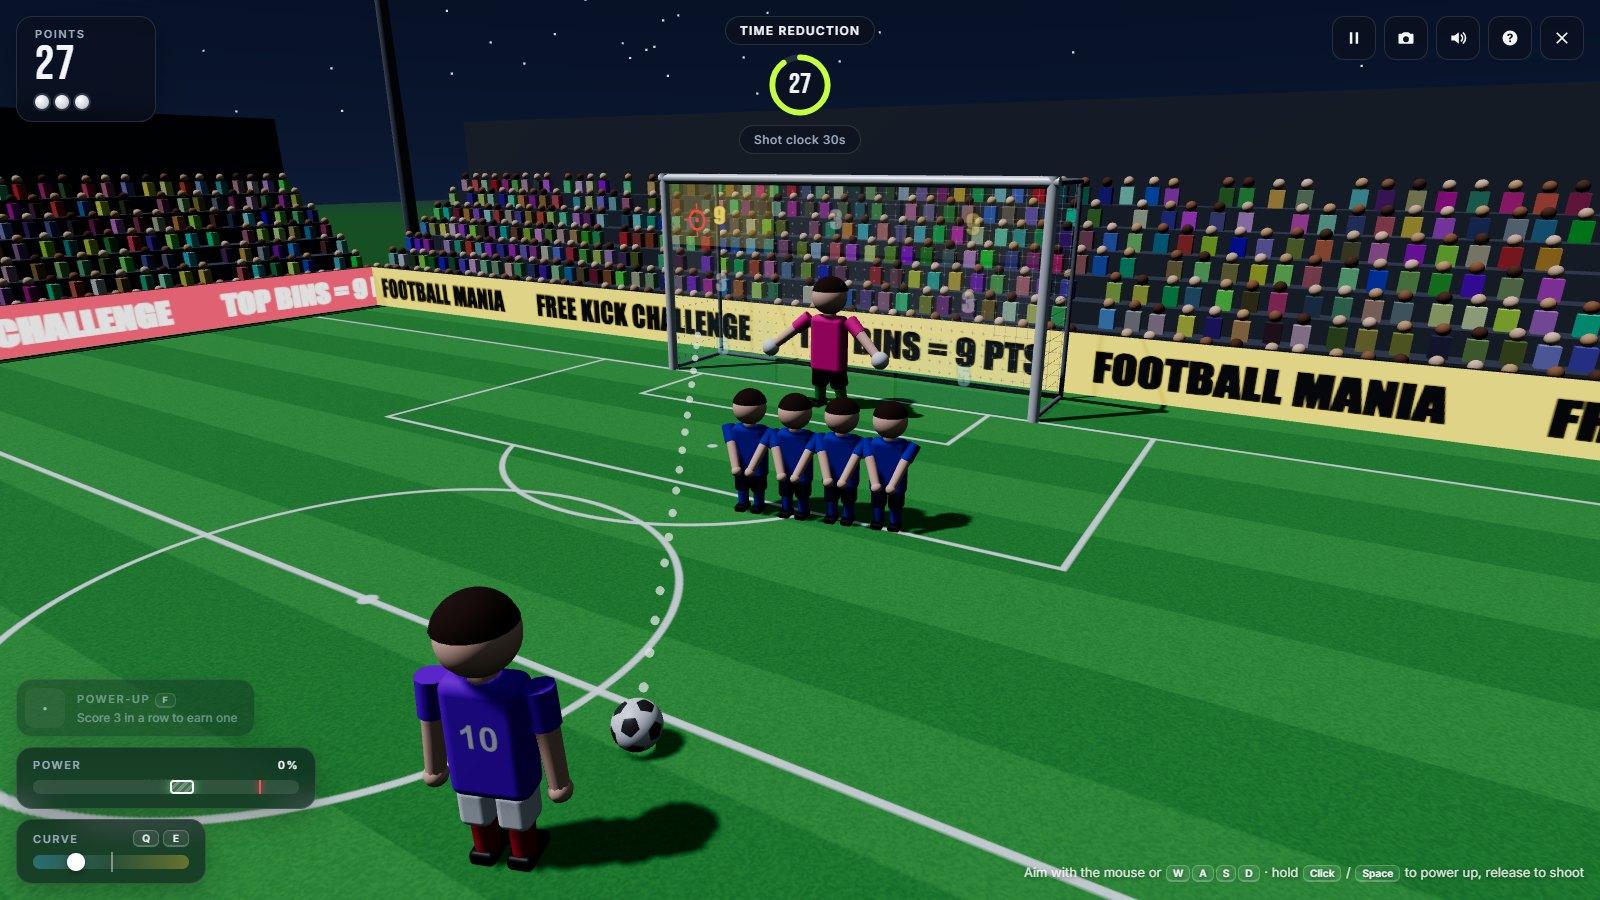
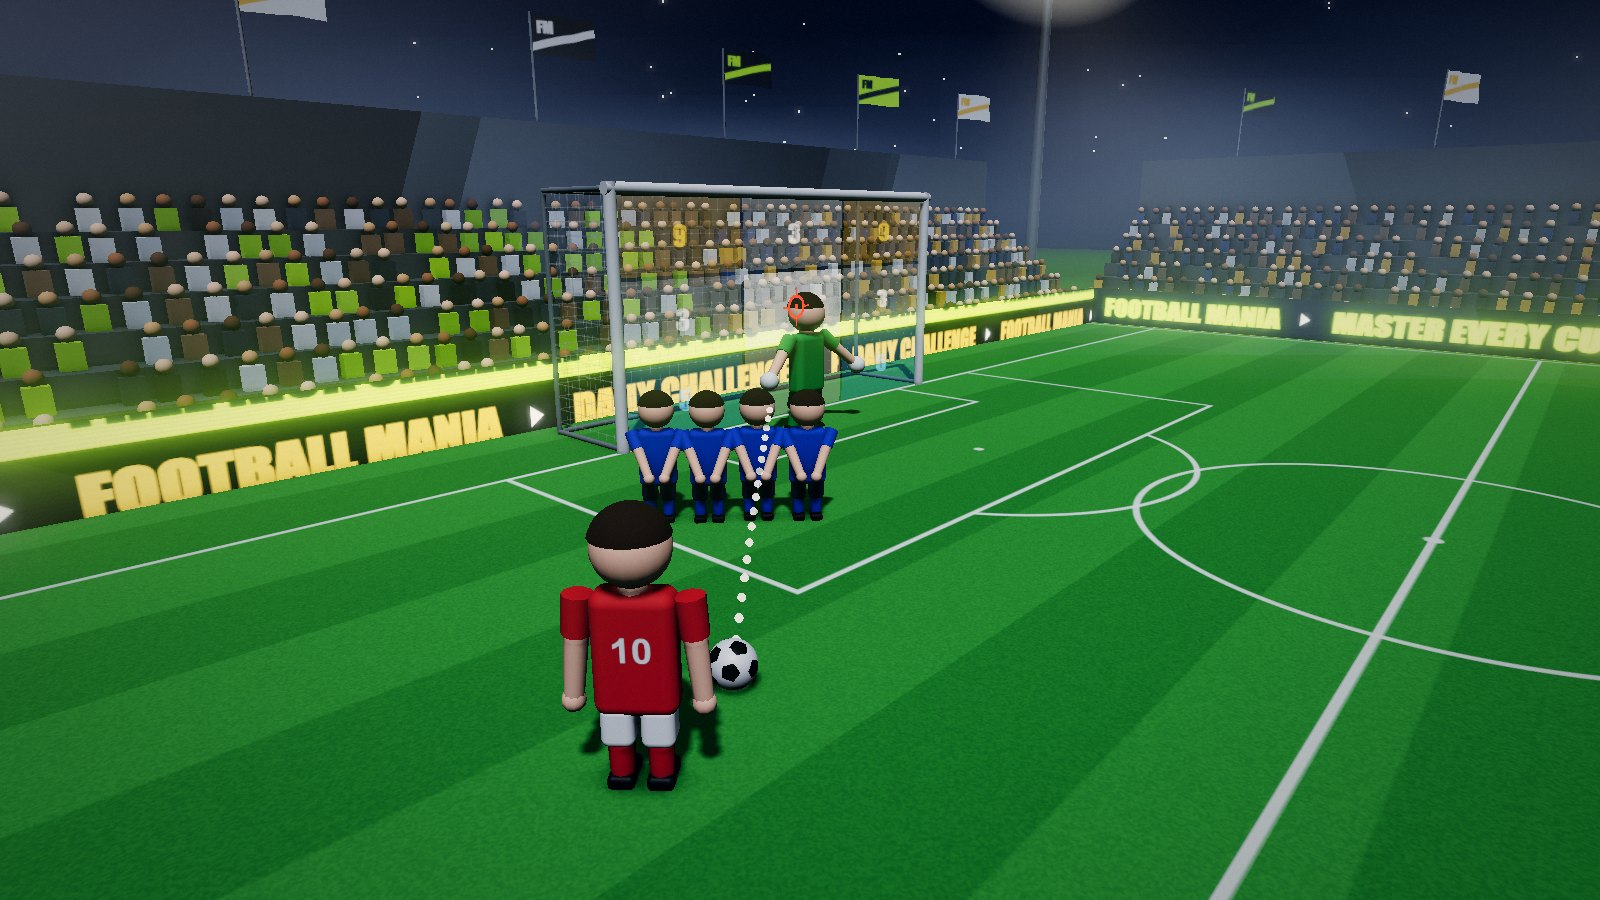
Unify branding with a new emblem and polish the whole game
- New master emblem (icons/logo.svg) and a small-size favicon.svg; all app,
  PWA and touch icons regenerated from it; README banner added
- Same ball drawing on the splash; brand mark on the main menu, pause and
  results screens
- One name ("Football Mania") and one theme colour (#060b17) everywhere
- One display font: Big Shoulders replaces Bebas Neue in the HUD, banners,
  dialogs and the 3D boards, flags and goal labels
- Wait briefly for the brand font before building the scene, so canvas
  textures never fall back to Impact on a first visit
- Achievement toasts use the trophy-cabinet badges instead of emoji
- Fresh 1600x900 install screenshots (golden hour, night, rain)
- Precache the new SVGs; remove dead results-screen CSS

diff --git a/index.html b/index.html
@@ -3,7 +3,7 @@
 <head>
   <meta charset="utf-8">
   <meta name="viewport" content="width=device-width, initial-scale=1, viewport-fit=cover">
-  <title>Football Mania 3D</title>
+  <title>Football Mania</title>
   <meta name="description" content="Free kick challenge in 3D: beat the wall and the keeper, aim for the top corners.">
   <!-- Installable app (PWA) -->
   <link rel="manifest" href="manifest.json">
@@ -12,12 +12,13 @@
   <meta name="apple-mobile-web-app-capable" content="yes">
   <meta name="apple-mobile-web-app-status-bar-style" content="black-translucent">
   <meta name="apple-mobile-web-app-title" content="Football Mania">
+  <link rel="icon" type="image/svg+xml" href="icons/favicon.svg">
   <link rel="icon" type="image/png" sizes="32x32" href="icons/favicon-32.png">
   <link rel="icon" type="image/png" sizes="192x192" href="icons/icon-192.png">
   <link rel="apple-touch-icon" href="icons/apple-touch-icon.png">
   <link rel="preconnect" href="https://fonts.googleapis.com">
   <link rel="preconnect" href="https://fonts.gstatic.com" crossorigin>
-  <link href="https://fonts.googleapis.com/css2?family=Barlow+Semi+Condensed:wght@500;600;700&family=Bebas+Neue&family=Big+Shoulders+Display:wght@700;800;900&family=Inter:wght@400;500;600;700;800&display=swap" rel="stylesheet">
+  <link href="https://fonts.googleapis.com/css2?family=Barlow+Semi+Condensed:wght@500;600;700&family=Big+Shoulders+Display:wght@700;800;900&family=Inter:wght@400;500;600;700;800&display=swap" rel="stylesheet">
   <link rel="stylesheet" href="css/style.css">
   <link rel="stylesheet" href="css/features.css">
   <link rel="stylesheet" href="css/menu.css">
@@ -33,7 +34,7 @@
   </script>
 </head>
 <body>
-  <canvas id="scene" aria-label="Football Mania 3D game view"></canvas>
+  <canvas id="scene" aria-label="Football Mania game view"></canvas>
 
   <!-- Opening splash: pure CSS, so it plays from the first paint while the game loads. -->
   <div id="splash" class="splash" role="dialog" aria-label="Football Mania is starting. Press any key or tap to skip.">
@@ -42,7 +43,20 @@
     <div class="splash-pitch" aria-hidden="true"></div>
     <div class="splash-center">
       <div class="splash-ball" aria-hidden="true">
-        <svg viewBox="0 0 64 64"><circle cx="32" cy="32" r="30" fill="#f5f7fb"/><path d="M32 20l11.4 8.3-4.4 13.4H25l-4.4-13.4z" fill="#0b1428"/><path d="M32 2.4l5.4 4.3-2 6.2h-6.8l-2-6.2zM60 26.6l-1.4 6.7-6.2.8-2.7-6.2 4.3-4.8zM50.6 55.6l-6.4 1.4-2.7-5.9 4-5.1 6.2 1.8zM19.8 57l-6.4-1.4-1.1-7.8 6.2-1.8 4 5.1zM4 26.6l5.9-3.5 4.3 4.8-2.7 6.2-6.2-.8z" fill="#0b1428"/><circle cx="32" cy="32" r="30" fill="none" stroke="rgba(11,20,40,.35)" stroke-width="1.5"/></svg>
+        <svg viewBox="0 0 64 64">
+          <defs>
+            <radialGradient id="sb-shade" cx="38%" cy="32%" r="72%"><stop offset="0" stop-color="#fff"/><stop offset=".72" stop-color="#f3f6fa"/><stop offset="1" stop-color="#cfd7e2"/></radialGradient>
+            <radialGradient id="sb-shadow" cx="70%" cy="74%" r="60%"><stop offset=".45" stop-color="#060b17" stop-opacity="0"/><stop offset="1" stop-color="#060b17" stop-opacity=".28"/></radialGradient>
+            <clipPath id="sb-clip"><circle cx="32" cy="32" r="30"/></clipPath>
+          </defs>
+          <!-- same ball as icons/logo.svg -->
+          <circle cx="32" cy="32" r="30" fill="url(#sb-shade)"/>
+          <g clip-path="url(#sb-clip)" fill="#0b1428"><path d="M32 20l11.4 8.3-4.4 13.4H25l-4.4-13.4zM32 1.2l6.2 4.6-2.4 7.2h-7.6l-2.4-7.2zM61.6 25.4l-1.6 7.8-7.2 1-3.1-7 5-5.6zM51.6 56.8l-7.4 1.6-3.1-6.8 4.6-5.9 7.2 2zM19.8 58.4l-7.4-1.6-1.3-9 7.2-2 4.6 5.9zM2.4 25.4l6.9-4.2 5 5.6-3.1 7-7.2-1z"/></g>
+          <path d="M32 20V13M43.4 28.3l6.3-1.3M39 41.7l3.6 4.3M25 41.7l-3.6 4.3M20.6 28.3l-6.3-1.3" stroke="#0b1428" stroke-width="1.1" stroke-linecap="round" opacity=".75" fill="none"/>
+          <circle cx="32" cy="32" r="30" fill="url(#sb-shadow)"/>
+          <ellipse cx="21" cy="14" rx="7.5" ry="4" fill="#fff" opacity=".35" transform="rotate(-28 21 14)"/>
+          <circle cx="32" cy="32" r="29.4" fill="none" stroke="#0b1428" stroke-opacity=".35" stroke-width="1.2"/>
+        </svg>
       </div>
       <div class="splash-eyebrow"><i></i>Free kick challenge<i></i></div>
       <h1 class="splash-title"><span class="t1">Football</span><span class="t2">Mania</span></h1>
@@ -166,7 +180,7 @@
       </header>
 
       <div class="hero">
-        <div class="eyebrow reveal" style="--d: 0.05s"><i></i>Free kick challenge</div>
+        <div class="eyebrow reveal" style="--d: 0.05s"><img class="brand-mark" src="icons/logo.svg" alt="" width="34" height="34">Free kick challenge</div>
         <h1 class="title reveal" style="--d: 0.12s"><span class="t1">Football</span><span class="t2">Mania</span></h1>
         <p class="tagline reveal" style="--d: 0.2s">Master every curve.</p>
         <p class="lead reveal" style="--d: 0.26s">Bend it round the wall, beat the keeper and pick out the top corners.</p>
@@ -265,7 +279,8 @@
     </section>
 
     <section id="screen-pause" class="screen hidden">
-      <div class="dialog">
+      <div class="dialog pause">
+        <img class="brand-mark lg" src="icons/logo.svg" alt="" width="56" height="56">
         <h2 class="screen-title">Paused</h2>
         <div class="actions vertical">
           <button class="btn primary" id="btn-resume">Resume</button>
@@ -281,6 +296,7 @@
         <header class="res-head">
           <span class="res-tag">Full time</span>
           <span class="res-mode" id="over-mode"></span>
+          <img class="brand-mark res-brand" src="icons/logo.svg" alt="Football Mania" width="34" height="34">
         </header>
 
         <div class="res-body">

diff --git a/css/style.css b/css/style.css
@@ -15,14 +15,14 @@
   --text: #f3f6fb;
   --muted: #9fb0c6;
   --accent: #c6ff3d;
-  --hero: "Big Shoulders Display", "Bebas Neue", Impact, sans-serif;
+  --hero: "Big Shoulders Display", Impact, "Arial Narrow", sans-serif;
   --cond: "Barlow Semi Condensed", Inter, system-ui, sans-serif;
   --accent-ink: #13200a;
   --gold: #f2c14e;
   --blue: #4fc3ff;
   --danger: #ff4d5e;
   --radius: 16px;
-  --display: "Bebas Neue", Impact, "Arial Narrow", sans-serif;
+  --display: var(--hero);
   --body: Inter, system-ui, -apple-system, "Segoe UI", sans-serif;
 }
 
@@ -111,7 +111,7 @@ kbd {
 
 .score-panel { padding: 10px 18px 12px; justify-self: start; min-width: 140px; }
 .score-panel .big {
-  font: 48px/1 var(--display);
+  font: 800 48px/1 var(--display);
   letter-spacing: 0.02em;
   transition: transform 0.25s;
 }
@@ -164,7 +164,7 @@ kbd {
   inset: 0;
   display: grid;
   place-items: center;
-  font: 28px/1 var(--display);
+  font: 800 28px/1 var(--display);
 }
 .timer.urgent .ring { stroke: var(--danger); }
 .timer.urgent span { color: var(--danger); animation: pulse 0.5s infinite alternate; }
@@ -278,7 +278,7 @@ kbd {
 }
 #banner.show { animation: banner-in 2s cubic-bezier(0.2, 1.4, 0.4, 1) forwards; }
 .banner-title {
-  font: clamp(64px, 12vw, 150px)/0.9 var(--display);
+  font: 900 clamp(64px, 12vw, 150px)/0.9 var(--display);
   letter-spacing: 0.03em;
   text-shadow: 0 6px 30px rgba(0, 0, 0, 0.45);
 }
@@ -349,7 +349,7 @@ kbd {
 }
 .title {
   margin: 6px 0 10px;
-  font: clamp(72px, 13vw, 156px)/0.85 var(--display);
+  font: 800 clamp(72px, 13vw, 156px)/0.85 var(--display);
   letter-spacing: 0.01em;
 }
 .title span { color: var(--accent); display: block; }
@@ -384,7 +384,7 @@ kbd {
 .dot.blue { background: var(--blue); }
 .dot.white { background: #fff; }
 
-.screen-title { font: clamp(40px, 6vw, 64px)/1 var(--display); letter-spacing: 0.03em; margin: 4px 0 20px; text-align: center; }
+.screen-title { font: 800 clamp(40px, 6vw, 64px)/1 var(--display); letter-spacing: 0.03em; margin: 4px 0 20px; text-align: center; }
 
 
 .dialog {
@@ -401,13 +401,7 @@ kbd {
 .dialog.wide { width: min(640px, 100%); }
 .dialog .eyebrow { text-align: center; }
 
-.final-score { font: 96px/1 var(--display); color: var(--accent); }
-.final-score small { display: block; font: 600 12px var(--body); color: var(--muted); letter-spacing: 0.2em; text-transform: uppercase; }
 .new-best { display: inline-block; margin-top: 10px; padding: 4px 12px; border-radius: 999px; background: var(--gold); color: #2b2000; font-weight: 800; font-size: 12px; letter-spacing: 0.12em; text-transform: uppercase; animation: pulse 0.7s infinite alternate; }
-.stats { display: grid; grid-template-columns: repeat(4, 1fr); gap: 8px; margin: 22px 0 24px; }
-.stats div { padding: 10px 4px; border-radius: 12px; background: rgba(255, 255, 255, 0.05); }
-.stats b { display: block; font: 28px/1 var(--display); }
-.stats span { font-size: 11px; color: var(--muted); text-transform: uppercase; letter-spacing: 0.08em; }
 
 .help-grid { display: grid; grid-template-columns: auto 1fr; gap: 10px 20px; text-align: left; align-items: center; font-size: 14px; }
 .help-grid > div:nth-child(odd) { white-space: nowrap; }
@@ -434,7 +428,6 @@ kbd {
   .icon-btn { width: 38px; height: 38px; }
   #btn-help { display: none; }
   .score-panel .big { font-size: 36px; }
-  .stats { grid-template-columns: repeat(2, 1fr); }
 }
 @media (prefers-reduced-motion: reduce) {
   *, *::before, *::after { animation-duration: 0.01ms !important; transition-duration: 0.01ms !important; }
@@ -459,3 +452,14 @@ kbd {
 .gfx-notice .gfx-fail { display: none; }
 .gfx-notice.failed .gfx-fail { display: block; }
 .gfx-notice.failed .gfx-wait, .gfx-notice.failed .gfx-spinner { display: none; }
+
+/* Brand mark: icons/logo.svg, the same emblem as the app icon and favicon. */
+.brand-mark {
+  flex: none;
+  width: 34px;
+  height: 34px;
+  border-radius: 9px;
+  box-shadow: 0 0 0 1px rgba(198, 255, 61, 0.25), 0 6px 16px rgba(0, 0, 0, 0.45);
+}
+.brand-mark.lg { width: 56px; height: 56px; border-radius: 14px; display: block; margin: 0 auto 14px; }
+.res-brand { margin-left: auto; }

diff --git a/css/features.css b/css/features.css
@@ -4,7 +4,7 @@
 .mult {
   padding: 3px 9px;
   border-radius: 999px;
-  font: 22px/1 var(--display);
+  font: 800 22px/1 var(--display);
   letter-spacing: 0.04em;
   color: #2b1500;
   background: linear-gradient(135deg, var(--gold), #ff8a2b);
@@ -30,7 +30,7 @@
 .hud-right { justify-self: end; display: flex; flex-direction: column; align-items: flex-end; gap: 8px; }
 .wind { display: flex; align-items: center; gap: 10px; padding: 8px 14px 8px 10px; border-radius: 12px; }
 .wind svg { width: 26px; height: 26px; fill: var(--blue); transition: transform 0.4s ease-out; }
-.wind b { font: 20px/1 var(--display); letter-spacing: 0.03em; }
+.wind b { font: 800 20px/1 var(--display); letter-spacing: 0.03em; }
 .wind.strong svg { fill: var(--gold); }
 
 .power-sweet {
@@ -96,7 +96,7 @@
   display: flex;
   align-items: center;
   gap: 8px;
-  font: 28px/1 var(--display);
+  font: 800 28px/1 var(--display);
   letter-spacing: 0.12em;
   text-transform: uppercase;
 }
@@ -121,6 +121,8 @@
 .ach-toast .kicker { font-size: 10px; font-weight: 700; letter-spacing: 0.16em; text-transform: uppercase; color: var(--gold); }
 .ach-toast b { display: block; font-size: 15px; }
 .ach-toast span { font-size: 12px; color: var(--muted); }
+.ach-toast .icon.badge { background: none; }
+.ach-toast .icon.badge svg { width: 100%; height: 100%; }
 .ach-toast.tinted { border-color: var(--c, var(--gold)); }
 .ach-toast.tinted .kicker { color: var(--c, var(--gold)); }
 
@@ -129,7 +131,6 @@
 
 .over-daily { margin-top: 10px; color: var(--accent); font-weight: 600; font-size: 14px; }
 .over-unlocks { display: flex; flex-wrap: wrap; justify-content: center; gap: 6px; margin: -8px 0 20px; }
-.over-unlocks span { padding: 4px 10px; border-radius: 999px; background: rgba(255, 210, 63, 0.14); border: 1px solid rgba(255, 210, 63, 0.4); font-size: 12px; }
 
 
 #banner.boss .banner-title {

diff --git a/src/world/stadium.js b/src/world/stadium.js
@@ -1,6 +1,6 @@
 import * as THREE from 'three';
 import { mergeGeometries } from 'three/addons/utils/BufferGeometryUtils.js';
-import { GRID_LENGTH, FIELD_BACK, FIELD_FRONT, GOAL } from '../config.js';
+import { GRID_LENGTH, FIELD_BACK, FIELD_FRONT, GOAL, BRAND_FONT } from '../config.js';
 
 const _crowdMatrix = new THREE.Matrix4();
 const FIELD_W = GRID_LENGTH * 2;
@@ -110,7 +110,7 @@ function boardTexture(offset) {
     // Subtle LED scanlines
     ctx.fillStyle = 'rgba(0,0,0,0.12)';
     for (let y = y0; y < y0 + BOARD_FACE_H; y += 3) ctx.fillRect(0, y, c.width, 1);
-    ctx.font = '700 40px "Bebas Neue", Impact, sans-serif';
+    ctx.font = `800 42px ${BRAND_FONT}`;
     ctx.textBaseline = 'middle';
     let x = 24;
     for (let i = 0; x < c.width; i++) {
@@ -152,7 +152,7 @@ function flagTexture(kind) {
   ctx.beginPath();
   ctx.moveTo(0, 56); ctx.lineTo(128, 18); ctx.lineTo(128, 34); ctx.lineTo(0, 72);
   ctx.fill();
-  ctx.font = '700 30px "Bebas Neue", Impact, sans-serif';
+  ctx.font = `900 32px ${BRAND_FONT}`;
   ctx.fillText('FM', 12, 36);
   const tex = new THREE.CanvasTexture(c);
   tex.colorSpace = THREE.SRGBColorSpace;

diff --git a/src/main.js b/src/main.js
@@ -16,7 +16,19 @@ function webglAvailable() {
   }
 }
 
-function start() {
+// The 3D boards, flags and goal labels draw text onto canvases once, at build time, so
+// the brand font must be ready first. Capped, so a slow or blocked font CDN never holds
+// up the game (the splash is still playing meanwhile).
+function brandFontsReady(timeout = 1500) {
+  if (!document.fonts?.load) return Promise.resolve();
+  const load = Promise.all([
+    document.fonts.load('800 42px "Big Shoulders Display"'),
+    document.fonts.load('900 42px "Big Shoulders Display"'),
+  ]).catch(() => {});
+  return Promise.race([load, new Promise((ok) => setTimeout(ok, timeout))]);
+}
+
+async function start() {
   const canvas = document.getElementById('scene');
   let game = null;
   const splash = runSplash({
@@ -44,6 +56,7 @@ function start() {
     return;
   }
 
+  await brandFontsReady();
   const renderer = new THREE.WebGLRenderer({ canvas, antialias: true, powerPreference: 'high-performance' });
   renderer.setPixelRatio(Math.min(window.devicePixelRatio, 2));
   renderer.shadowMap.enabled = true;

diff --git a/src/ui.js b/src/ui.js
@@ -749,12 +749,15 @@ export class UI {
   }
 
   /** Slide-in card for achievements and stickers. */
-  achievementToast({ icon, name, desc }, kicker = 'Achievement unlocked', color = null) {
+  achievementToast({ id, icon, name, desc }, kicker = 'Achievement unlocked', color = null) {
     const el = document.createElement('div');
     el.className = `ach-toast${color ? ' tinted' : ''}`;
     if (color) el.style.setProperty('--c', color);
     el.innerHTML = `<div class="icon"></div><div><div class="kicker"></div><b></b><span></span></div>`;
-    el.querySelector('.icon').textContent = icon;
+    // Achievements show the same badge as the trophy cabinet; anything else keeps its glyph.
+    const iconEl = el.querySelector('.icon');
+    if (TROPHY_META[id]) { iconEl.classList.add('badge'); iconEl.innerHTML = badgeSvg(id); }
+    else iconEl.textContent = icon;
     el.querySelector('.kicker').textContent = kicker;
     el.querySelector('b').textContent = name;
     el.querySelector('span').textContent = desc;

diff --git a/src/world/goal.js b/src/world/goal.js
@@ -1,5 +1,5 @@
 import * as THREE from 'three';
-import { GOAL, getGoalPoints } from '../config.js';
+import { GOAL, getGoalPoints, BRAND_FONT } from '../config.js';
 
 const NET_CELL = 11;
 
@@ -20,7 +20,7 @@ function labelTexture(text, color) {
   const c = document.createElement('canvas');
   c.width = c.height = 128;
   const ctx = c.getContext('2d');
-  ctx.font = '700 84px "Bebas Neue", Impact, sans-serif';
+  ctx.font = `900 88px ${BRAND_FONT}`;
   ctx.textAlign = 'center';
   ctx.textBaseline = 'middle';
   ctx.fillStyle = color;

diff --git a/css/menu.css b/css/menu.css
@@ -377,8 +377,6 @@
 .btn.ghost { background: rgba(255, 255, 255, 0.05); backdrop-filter: blur(10px); }
 .btn.primary { background: linear-gradient(180deg, #d9ff6e, var(--accent) 55%, #b0ec26); color: #0b1428; box-shadow: inset 0 1px 0 rgba(255, 255, 255, 0.55), 0 10px 30px rgba(198, 255, 61, 0.3); }
 .btn.primary:hover { transform: translateY(-2px) scale(1.02); }
-.final-score { font-family: var(--hero); font-weight: 900; }
-.stats b { font-family: var(--hero); font-weight: 800; }
 
 /* Modes */
 

diff --git a/src/config.js b/src/config.js
@@ -166,6 +166,10 @@ export function zoneName(points) {
   return 'Centre';
 }
 
+// Brand display face (loaded from Google Fonts in index.html). Canvas textures use it too,
+// so main.js waits for it before building the scene.
+export const BRAND_FONT = '"Big Shoulders Display", Impact, "Arial Narrow", sans-serif';
+
 export const clamp = (v, lo, hi) => Math.max(lo, Math.min(hi, v));
 export const lerp = (a, b, t) => a + (b - a) * t;
 export const rand = (lo, hi) => lo + random() * (hi - lo);

diff --git a/css/splash.css b/css/splash.css
@@ -102,7 +102,7 @@
   flex-direction: column;
   align-items: center;
   margin: clamp(6px, 1.4vmin, 12px) 0 0;
-  font: 900 clamp(56px, 15vmin, 150px)/0.84 "Big Shoulders Display", "Bebas Neue", Impact, sans-serif;
+  font: 900 clamp(56px, 15vmin, 150px)/0.84 var(--hero);
   text-transform: uppercase;
 }
 .splash-title span { display: block; opacity: 0; }

diff --git a/sw.js b/sw.js
@@ -26,6 +26,8 @@ const ASSETS = [
   './icons/icon-512.png',
   './icons/apple-touch-icon.png',
   './icons/favicon-32.png',
+  './icons/favicon.svg',
+  './icons/logo.svg',
   './src/main.js',
   './src/pwa.js',
   './src/game.js',

diff --git a/README.md b/README.md
@@ -1,3 +1,5 @@
+<p align="center"><img src="docs/brand/banner.png" alt="Football Mania: free kick challenge" width="800"></p>
+
 # Football Mania
 
 A 3D free kick game for the browser, built with Three.js. Bend the ball around the wall, beat the keeper and aim for the top corners.
